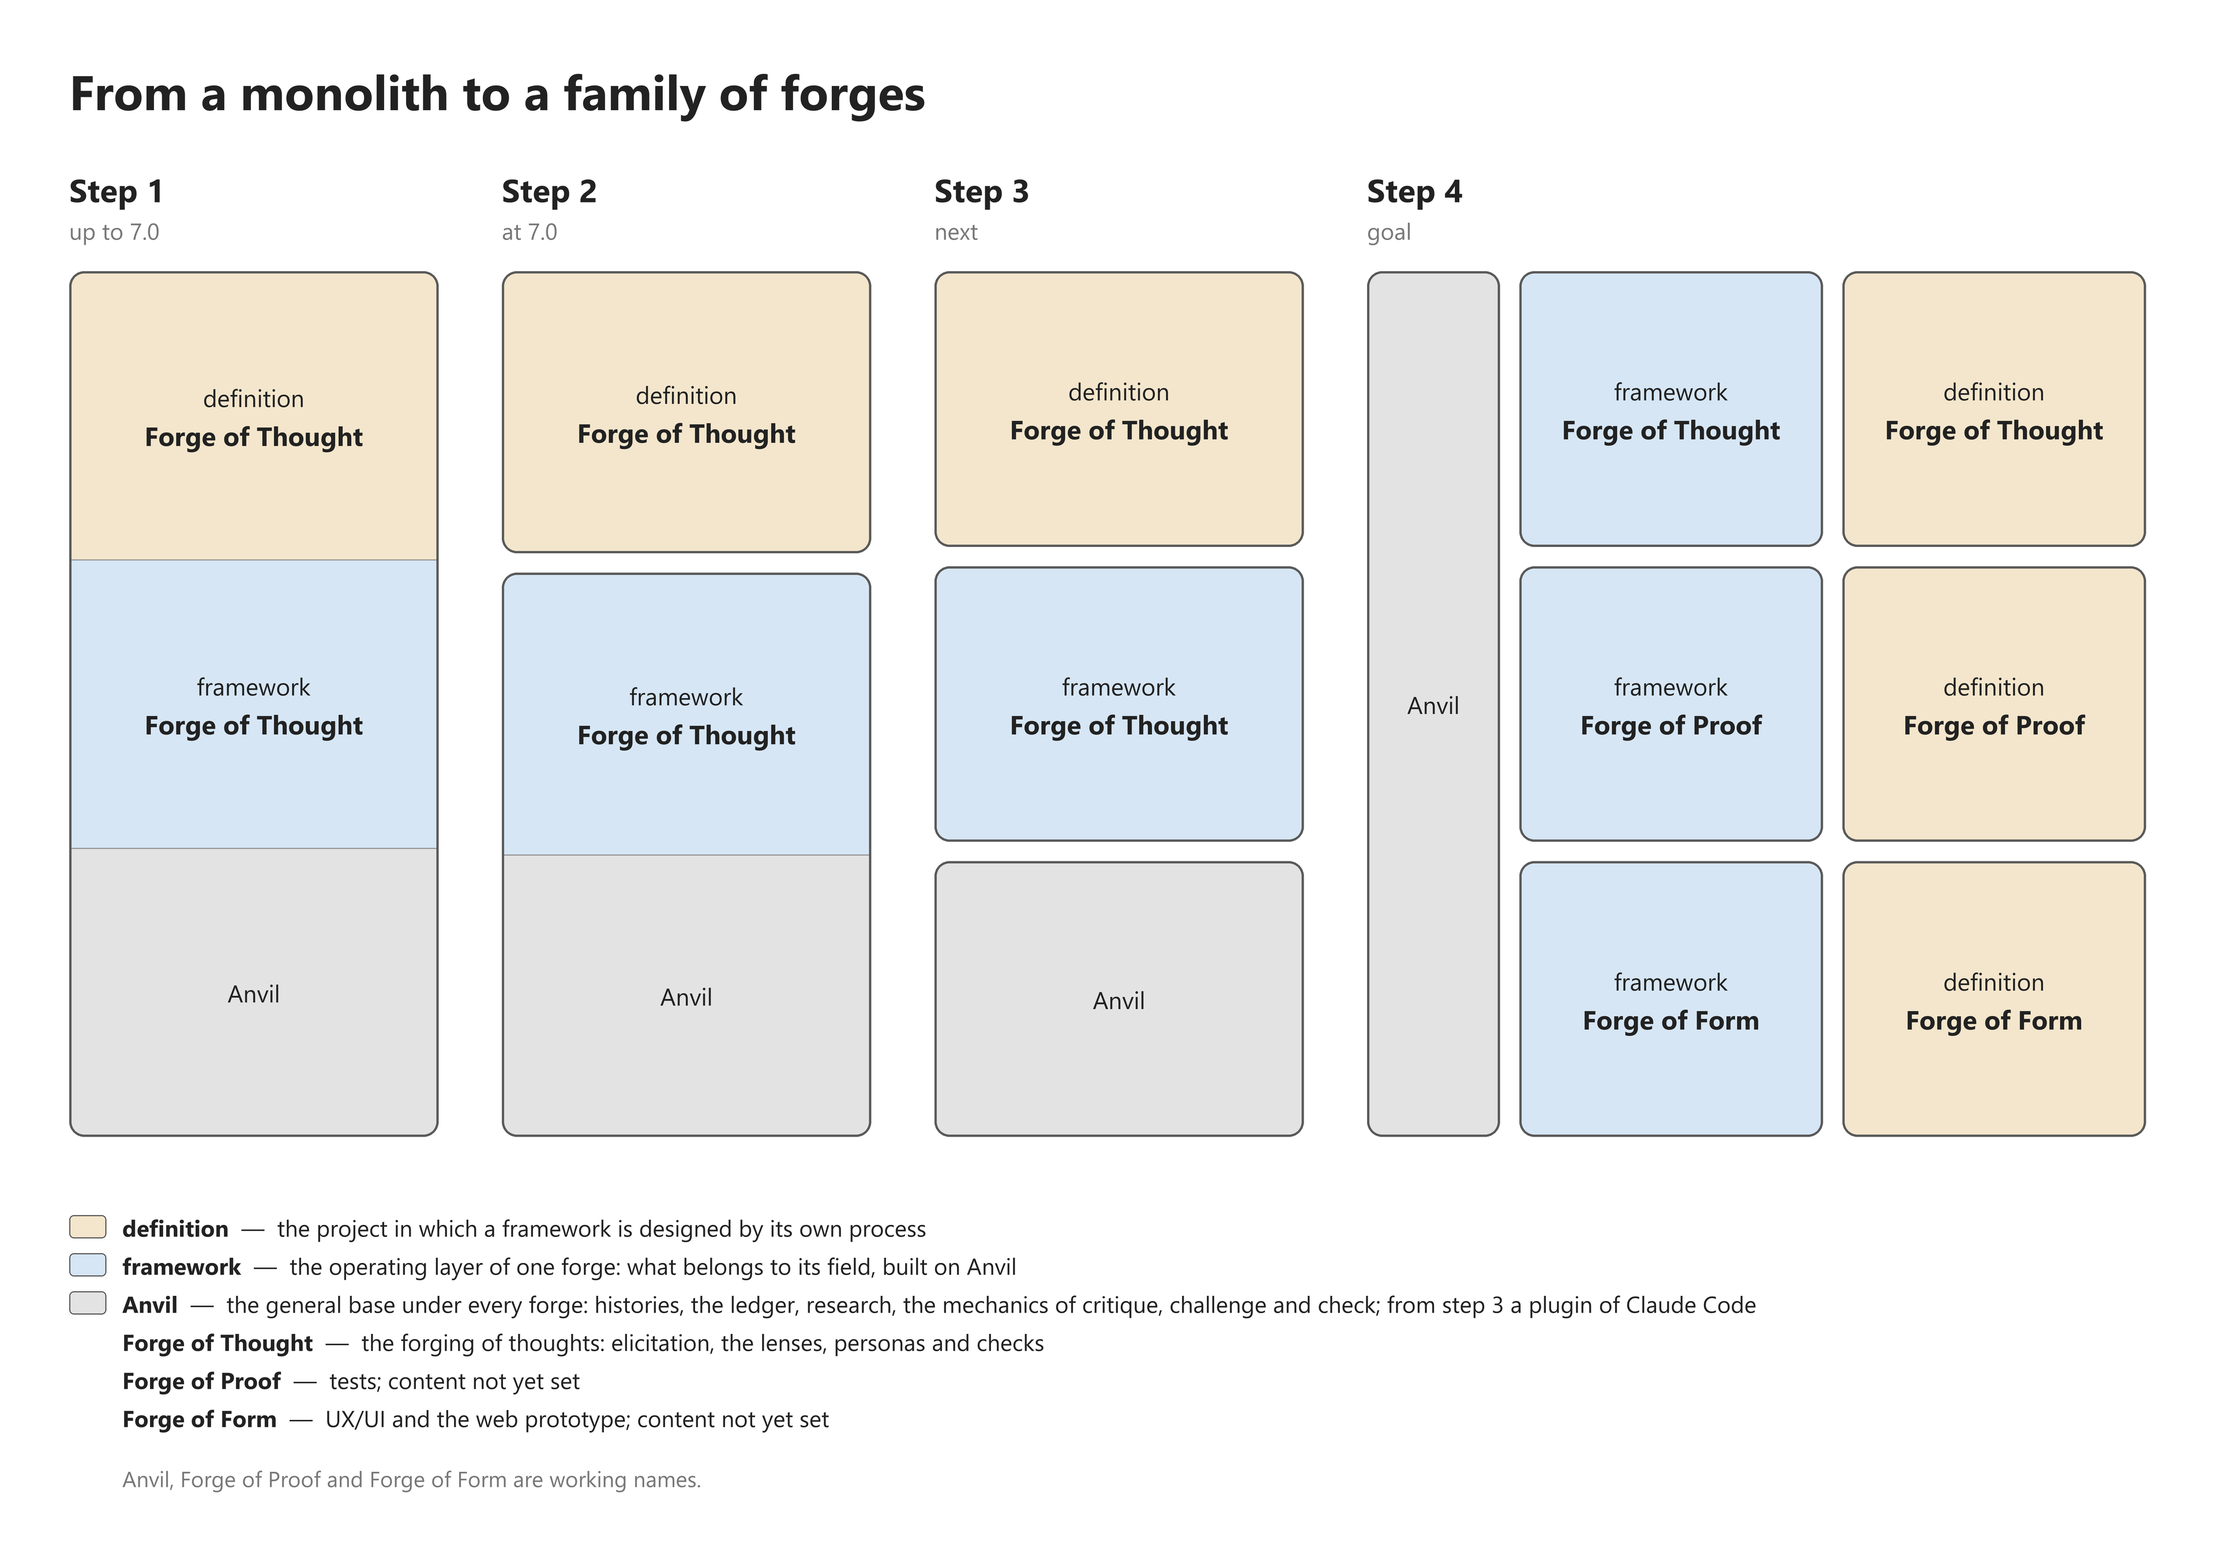
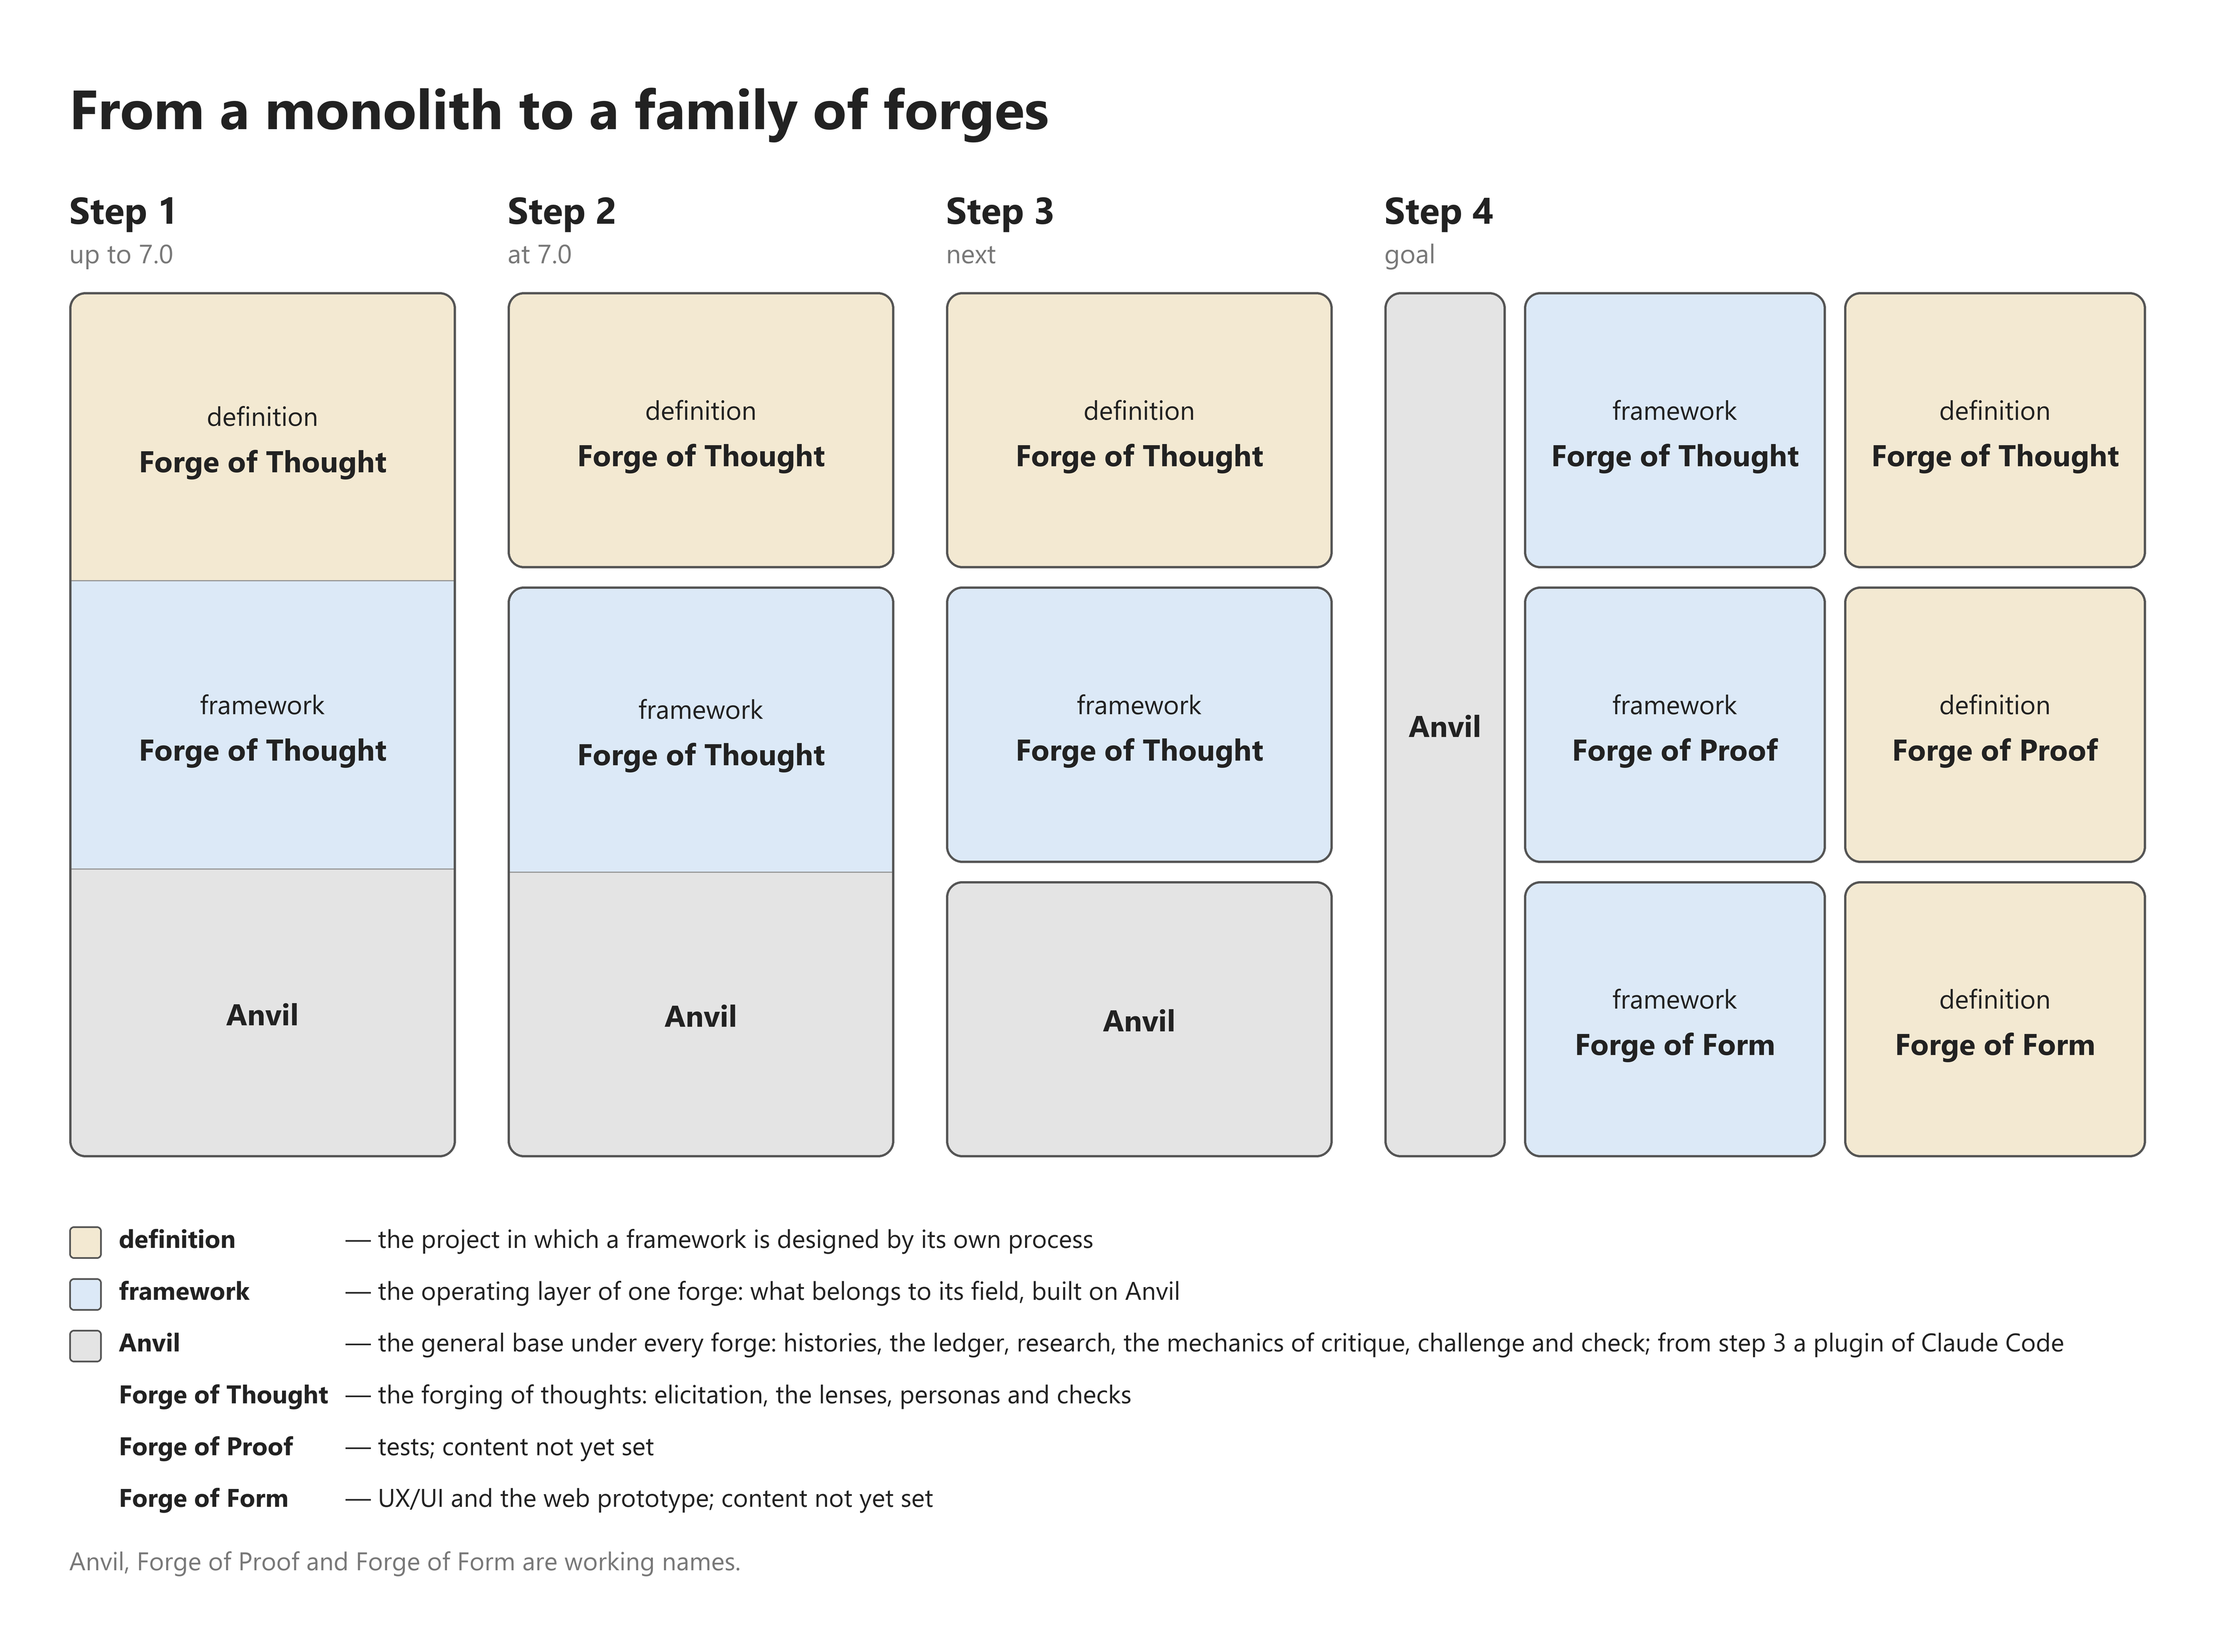
forge: Anvil bold in the picture of the forge's parts, as a forge's name is (recipe forge-evolution 0.5, re-rendered)

diff --git a/recipes/forge-evolution.history.md b/recipes/forge-evolution.history.md
@@ -43,3 +43,4 @@ word `<file> | changed | state: by hand`.
 - 2026-11-10 | 0.2 | PCHe | recipes/forge-evolution.md | changed | the render of 0.1 judged not good by the principal: the blocks were not separated; each block a box of its own, step 4 with Anvil one long box at the left, the frameworks and the definitions in two columns beside it; the picture pinned as a plain figure in place of the mermaid grid, which spans columns only and cannot draw a box across rows (THR.0850) | Was: The diagram is pinned: a grid of equal boxes, three rows (definition, framework, Anvil), the steps left to right, a box holding a name only. A dashed outline marks a layer not yet separated from its neighbour.<br>\| solid outline \| a block of its own, its own repository \|<br>\| dashed outline \| a layer inside one block, not yet separated \|
 - 2026-11-10 | 0.3 | PCHe | recipes/forge-evolution.md | changed | the figure of 0.2 was a check drawn in the conversation, not the output the principal wanted; the recipe renders a `png` drawn by the renderer (SOL.0940, POS.0590), the picture as tuned with the principal: the step headed on two lines so the number never reads as a version, the forges by their whole names, one fill per layer, the legend without box and line, the working names said | Was: The picture is pinned: the figure of the Template copied as it stands, character for character, in a plain code block, so that it draws the same on GitHub, in a terminal and through pandoc. A box is a block, a repository of its own; a line inside a box divides the layers of one block. Steps 1 to 3 stack the layers, definition above framework above Anvil, the steps left to right; step 4 turns: Anvil one box the whole height at the left, the frameworks in a column beside it, the definitions in a column at the right, one forge per row.<br>the Template's figure in characters, never saved to git<br>\| box \| a block: its own repository \|<br>\| line inside a box \| the boundary of two layers inside one block, not yet separated \|
 - 2026-11-10 | 0.4 | PCHe | recipes/forge-evolution.md | changed | the width of the picture stated, 3840 px with the height from the content, the principal's word (SOL.0940); the equal height of the layers across steps cut, since with equal steps and gaps between blocks it cannot hold, as the renderer of 0.3 reported | Was: line. The three layers have one height in every step.
+- 2026-11-10 | 0.5 | PCHe | recipes/forge-evolution.md | changed | Anvil bold, so that it reads as a name like the forges' names, the principal's word | Was: Anvil carries its name alone.

diff --git a/renders/forge-evolution.md b/renders/forge-evolution.md
@@ -2,7 +2,7 @@
 project: forge
 render: forge-evolution
 generated: 2026-11-10
-recipe: recipes/forge-evolution.md v0.4
+recipe: recipes/forge-evolution.md v0.5
 inputs:
   - threads/THR.0850.md
 ---
@@ -12,11 +12,9 @@ inputs:
 ![From a monolith to a family of forges](forge-evolution.png)
 
 Where the thread and the Instructions differ:
-
-- The thread calls `framework` and `definition` names proposed by
-  Claude and not decided, while the picture and its legend use them
-  as plain names and the grey line marks only Anvil, Forge of Proof
-  and Forge of Form as working names.
-- The thread leaves open whether the working names should be shown
-  in the picture at all, to be settled with the vocabulary; the
-  Instructions show them and say so in the legend.
+- The thread calls Anvil, Forge of Proof and Forge of Form temporary
+  working names; the picture shows them as names, and only its legend
+  says they are working names.
+- The thread says `framework` and `definition` are proposed by Claude
+  and not decided; the picture and its legend use them as terms
+  without saying so.

diff --git a/recipes/forge-evolution.md b/recipes/forge-evolution.md
@@ -2,7 +2,7 @@
 project: forge
 purpose: the picture of the forge's parts in four steps
 audience: anyone the principal explains the plan of the forge to
-version: 0.4
+version: 0.5
 ---
 
 # Recipe — the picture of the forge's parts in four steps
@@ -38,7 +38,7 @@ size and scaled down so that the edges are smooth:
   Forge of Thought, Forge of Proof, Forge of Form.
 - A box names its layer above, plain, and its forge below, bold, by
   the forge's whole name: "Forge of Thought", never "Thought". Anvil
-  carries its name alone.
+  carries its name alone, bold, as a forge's name is.
 - One fill per layer, the same in every step: definition a light
   beige, framework a light blue, Anvil a light grey.
 - The legend under the picture, a term in bold and its meaning: a
